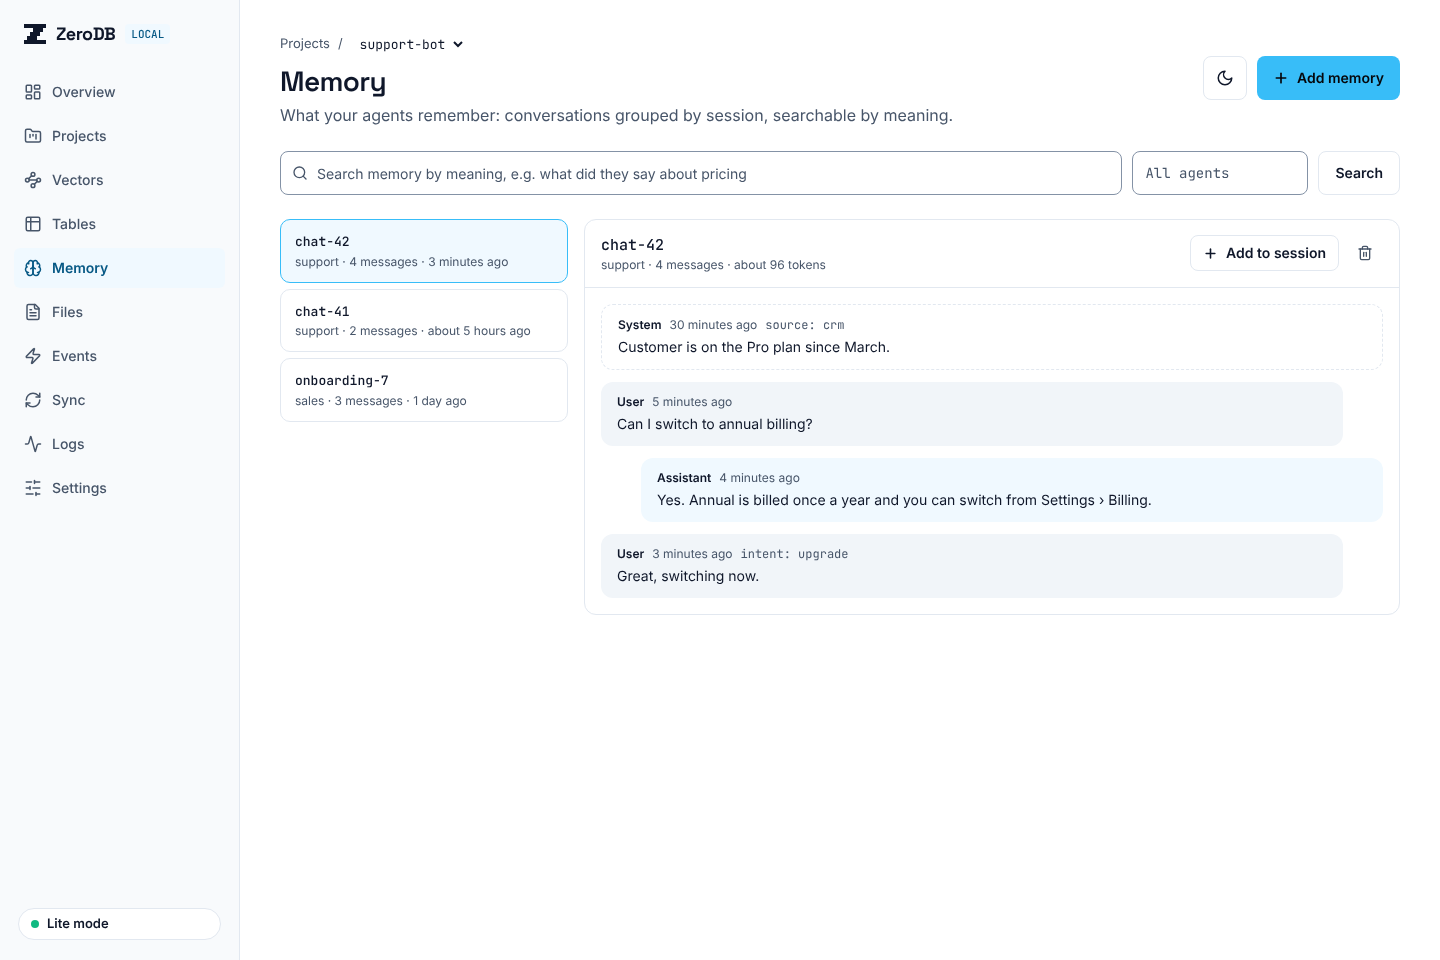
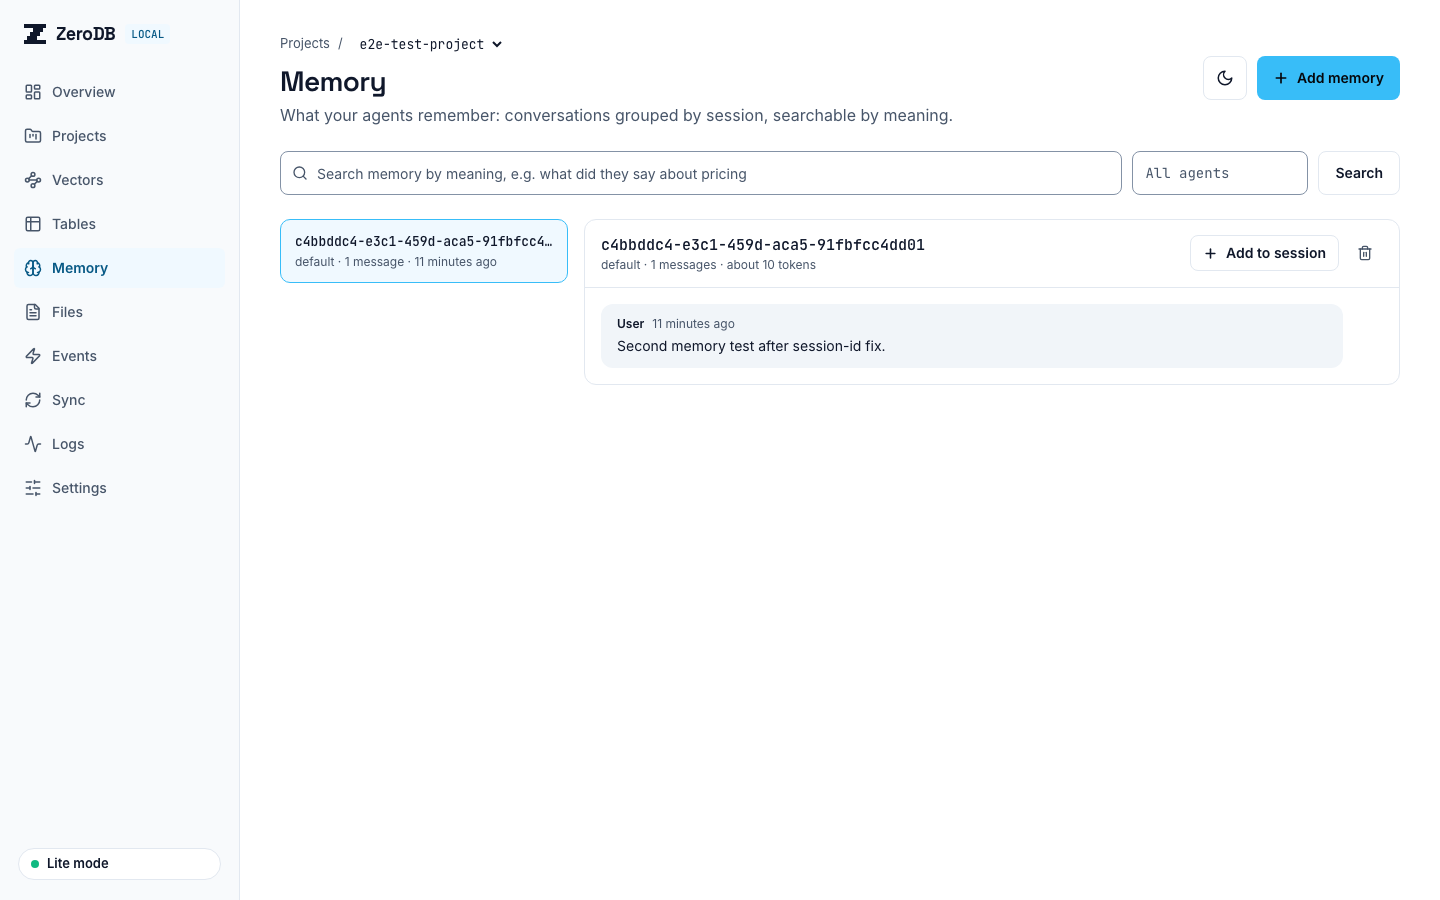
Update dashboard redesign handoff doc and screenshots after e2e pass
Replaced the fixture-data screenshots for all 10 pages (light and dark) with
ones taken this session against a real zerodb serve lite-mode backend with
real data. Updated the handoff doc with what was verified end-to-end, what
was fixed along the way (#73, #75, #77, #79, #80), and what's still open
(#83's Docker/MinIO blocker, and a sync_plans lite-mode gap not yet filed as
its own issue).

Refs #67

diff --git a/docs/features/DASHBOARD_REDESIGN.md b/docs/features/DASHBOARD_REDESIGN.md
@@ -4,7 +4,7 @@ Refs #67 · Branch `feat/67-dashboard-redesign`
 
 This branch takes the ZeroLocal dashboard from a read-only viewer to a working tool: every resource can be created from the UI, every page is fully built (no "coming soon"), it uses the ZeroDB brand, and it has light and dark themes. This doc is for whoever finishes it locally. It says what's built, what was decided, where the design and the API disagree, and what's left.
 
-Screenshots of the built pages (light, dark, phone, dialogs) are in [`docs/design/dashboard-redesign/`](../design/dashboard-redesign/). They were taken from a production build with fixture API data, not a live backend.
+Screenshots of the 10 built pages, light and dark, are in [`docs/design/dashboard-redesign/`](../design/dashboard-redesign/), taken this session (Nov 22) against a real `zerodb serve` lite-mode backend with real data. The phone-width and dialog screenshots there are from an earlier pass against fixture API data and were not retaken this session.
 
 ## Decisions (design review, Nov 22, 2026)
 
@@ -61,7 +61,31 @@ Every API router was checked against the dashboard. Result:
 
 Also fixed: `api/tests/test_qdrant_startup.py` was already failing on `main` (it expected `6333:6333`, the file has had a port variable for a while).
 
-**Found while testing, not fixed (API bugs in lite mode):** `GET /sync/status` fails with `no such table: sync_state` and `GET /sync/history` with `no such column: sync_history.sync_id` on a fresh lite database. The Sync page shows those errors until the lite migrations create these tables. Same family as #47.
+## End-to-end pass against a real lite-mode API (this session)
+
+Merged `main` in (brings #47's lite-mode CRUD fix, plus #64/#66/#71), then ran the full walkthrough against a real `zerodb serve` (lite mode) and `npm run dev` dashboard, driven by real browser automation, in both light and dark theme.
+
+**Fixed as part of this pass** (own issue/branch/PR each, TDD -- failing test first):
+- **#73**: lite-mode `sync_history` table was missing `sync_id` and several other ORM-expected columns (`direction`, `mode`, `bytes_transferred`, `error_message`, `error_stack`, `snapshot_id`, `updated_at`) -- `GET /sync/history` 503'd on every lite install. `sync_state` already matched its ORM model and needed no change. Fixed in `lite/db/schema_lite.sql`.
+- **#75**: `zerodb serve` (the README's own documented quickstart) crashed immediately with `ModuleNotFoundError: No module named 'app'` -- `cli/commands/serve.py` pointed uvicorn at a package (`app.main:app`) that doesn't exist anywhere. The existing test suite had mocked this exact call and asserted the wrong module string, so it stayed green while the command was completely broken for every user. Fixed to resolve and `chdir` into the real `api/` package.
+- **#77**: Memory page's **Add memory** dialog stored a memory successfully with a blank Session field, but the memory then vanished permanently -- `api/services/memory_service.py`'s `list_sessions()` filters out any `session_id IS NULL` row, and the dialog's own "Leave blank to start a new one" hint wasn't implemented; blank really meant null. Fixed client-side to generate a session id when the field is blank.
+- **#79**: lite-mode `conflict_log` table had an older, different column shape than the `ConflictLog` ORM model (no `detected_at`/`conflict_metadata`/`notes`, different names for the rest) -- `GET /sync/conflicts/` 503'd, hit while exercising the Sync page. Same family as #73; fixed the same way.
+- **#80**: Every page showed a false "This server needs an API key" banner whenever a project simply wasn't connected to ZeroDB Cloud (a `cloud/status` 401 by design) -- even with `zerodb serve` started with **no** `ZERODB_LOCAL_API_KEY` at all and every real local-API request succeeding. The global 401/403 handler couldn't tell a cloud-auth 401 apart from a local-key 401. Fixed by excluding `cloud/status` from the generic auth-error path.
+
+**Verified working, no changes needed:**
+- Create a project; Overview/Projects both reflect it immediately.
+- Vectors: Guided and Advanced JSON upsert, both with a custom ID containing `/` (confirms the `{vector_id:path}` fix from a prior session still holds post-merge); semantic search with real relevance scores; delete (including a slash-ID vector).
+- Tables: column builder and JSON schema, both create working tables; Add row respects the schema's types.
+- Memory: add (now always listed, see #77), semantic search across stored memories.
+- Files: upload, download, delete; the 10 MB client-side guard (`exceedsUploadLimit` in `dashboard/lib/files.ts`) verified via its existing unit test rather than a live oversized browser upload (the upload tool itself caps combined size well under the limit, so a true 10MB+ upload wasn't practical to drive through the browser this pass).
+- Events: publish, family filter chips, detail panel.
+- Sync: preview (push, with real counts: tables/rows/vectors/memories/events/files) -- not executed (`Run sync`/push/pull need a real cloud connection, gated on `CLOUD_API_KEY`, not present this session; see below).
+- Theme (light/dark/system) and Settings form defaults (Guided ⇄ Advanced JSON) persist correctly across pages and reloads.
+- API key flow (step below): banner only appears when a real key is actually configured; pasting the correct key in Settings restores access; `zerodb serve --host 0.0.0.0` with no key prints the documented security warning to stdout.
+
+**Found, filed, not fixed (out of scope for this pass):**
+- **#83**: `docker compose up`/`docker compose build` fails outright -- `docker-compose.yml`'s `minio` service references `ainative-studio/minio:local`, which exists nowhere (not on Docker Hub, not built locally, no Dockerfile or build step for it). The comment pointing at a `minio-fork-maintenance-plan.md` doc is dead; that file doesn't exist. Independently confirmed `minio/minio:latest` really is gone from Docker Hub (so the stated reason for moving off it is real), but the replacement was never actually built. The dashboard's own Docker image builds and runs fine in isolation; it's the full compose stack that's blocked, since `zerodb-api` hard-depends on `minio: condition: service_healthy`. This is a real infrastructure gap (sourcing/building/maintaining a MinIO fork) out of scope to improvise inside this session -- filed and left for dedicated follow-up.
+- A deeper, separate lite-mode gap found but **not** fixed: `POST /sync/execute` still fails with `no such table: sync_plans` -- `api/models/sync_plan.py`'s ORM model (added for #71's sync-plan-persistence work) has no corresponding table in `lite/db/schema_lite.sql` at all (not just missing columns, the whole table). This blocks a real end-to-end push/pull run in lite mode even once cloud-connected. Flagged here rather than fixed, since it's materially larger than #73/#79's column-mismatch shape and wasn't part of this pass's original scope. No issue filed yet for this specific gap -- worth its own issue before anyone attempts a live cloud sync run in lite mode.
 
 ## Where things live
 
@@ -103,22 +127,28 @@ The design canvas was drawn before checking the request models. The code follows
 
 ## Verified
 
-- `npm test`: **144 passing** (16 files): pure logic, API client (now with an injected HTTP instance; the old suite made real requests to localhost:8000), theme provider, and page-level tests that drive each create flow through the UI.
+- `npm test`: **152 passing** (16 files): pure logic, API client (now with an injected HTTP instance; the old suite made real requests to localhost:8000), theme provider, and page-level tests that drive each create flow through the UI.
 - `npx tsc --noEmit`, `npm run lint`: clean.
-- `npm run build`: all 10 routes prerender.
+- `npm run build`: all 10 routes prerender (also rebuilt inside `docker compose build dashboard`, which succeeds cleanly -- see Docker note below).
 - Production build loaded in Chromium against fixture API data, every page in light, dark and 390px phone width (plus the 401 banner): **no console errors, no horizontal page scroll**. That pass caught and fixed a hydration mismatch (browser-only values rendered on the server) and table "Actions" labels escaping their scroll box on phones.
 - Also fixed two tests already failing on `main`: a timezone-dependent `formatDate` test and the network-calling API client suite.
+- **End-to-end against a real `zerodb serve` (lite mode) API**, driven by real browser automation, light and dark theme: see the session writeup above for exactly what was exercised and what it found. Python suite: `python -m pytest tests/ -v --no-cov` 261 passed / 9 skipped; `cd api && python -m pytest tests/ --no-cov` 69 passed / 120 skipped (the 120 need a real docker-compose Postgres, correctly skip without one).
+- `zerodb serve` is confirmed working end-to-end post-#75 (it crashed on every invocation before that fix).
+- API key flow (no key → open; `ZERODB_LOCAL_API_KEY` set → banner + per-page error until the key is pasted in Settings → Connection, after which it works; `--host 0.0.0.0` with no key prints the documented warning to stdout) -- all confirmed against a real server, not mocked.
+- Light/dark/system theme and Settings form defaults verified live, not just unit-tested.
+- Screenshots in `docs/design/dashboard-redesign/` for all 10 pages in light and dark are from this session's real lite-mode server with real data (replacing the prior fixture-data screenshots for those 20 files). The dialog (`dlg-*`), phone (`phone-*`), and `light-auth-banner.png` screenshots from the prior fixture-data pass were **not** retaken this session -- left as-is; worth a follow-up pass since the auth-banner one in particular now shows a state (#80's false positive) that no longer occurs the way it did when it was captured.
 
 ## Not verified / left to do locally
 
-1. **End-to-end against a real lite-mode API.** Not run here. Lite-mode CRUD for tables, vectors, files and events is blocked server-side by #47 (Postgres-only SQL). Once #47 lands: start the API in lite mode, `npm run dev`, and walk Projects → Vectors → Tables → Files → Events creating one of each.
-2. ~~**Vector IDs containing `/`.**~~ Fixed in 7895271 (`{vector_id:path}` in `api/routers/vectors.py`).
-3. ~~**Large uploads.**~~ Fixed in 3915a83: client-side 10 MB guard with a clear error (`MAX_UPLOAD_BYTES` in `dashboard/lib/files.ts`). The API itself still has no limit.
+1. ~~**End-to-end against a real lite-mode API.**~~ Done this session (see above). Found and fixed #73, #75, #77, #79, #80 along the way; found and filed #83 (Docker, not fixed) and a `sync_plans` lite-mode gap (not yet filed as its own issue -- see above).
+2. ~~**Vector IDs containing `/`.**~~ Fixed in 7895271 (`{vector_id:path}` in `api/routers/vectors.py`). Reconfirmed working this session, both Guided and Advanced JSON upsert and delete, after the `main` merge.
+3. ~~**Large uploads.**~~ Fixed in 3915a83: client-side 10 MB guard with a clear error (`MAX_UPLOAD_BYTES` in `dashboard/lib/files.ts`). The API itself still has no limit. Reconfirmed via its unit test this session (see above for why not a live oversized upload).
 4. **Live events.** The feed polls every 3s. `POST /events/subscribe` exists; switch to it if there's an SSE/WebSocket channel to read from.
-5. **Lite-mode sync tables.** `sync_state` table and `sync_history.sync_id` column are missing on a fresh lite DB (see above).
-6. **Sync against a real cloud account.** The Sync and Memory pages are built to the API's response models and tested with mocks; run a real push/pull once a project is connected.
-7. **Next.js 14.2.15 security advisories** (33 npm audit findings) remain. Framework bump is a separate, engineering-owned task.
-8. `next start` warns because `next.config.mjs` sets `output: 'standalone'`; for local runs use `node .next/standalone/server.js` (Dockerfile already does).
+5. ~~**Lite-mode sync tables.**~~ Fixed this session: #73 (`sync_history`) and #79 (`conflict_log`). A related, larger gap remains: `sync_plans` has no lite-mode table at all, blocking `POST /sync/execute` end to end (see above) -- not yet filed as its own issue.
+6. **Sync against a real cloud account.** Preview confirmed working this session (real counts from a real lite-mode project). Push/pull execution still not run against a real cloud account -- no `CLOUD_API_KEY` was available this session either. Also blocked in lite mode by the `sync_plans` gap above until that's fixed.
+7. **Docker / full mode.** Dashboard's own Docker image builds and runs cleanly (`docker compose build dashboard` succeeds, all 10 routes present in the build output). The full compose stack cannot start at all: see #83 -- `ainative-studio/minio:local` doesn't exist anywhere, and `zerodb-api` hard-depends on `minio` being healthy. Not fixed this session (real infra work, out of scope here). `ZERODB_BIND_ADDRESS=0.0.0.0` publishing on all interfaces instead of loopback could not be verified for the same reason -- the stack never came up.
+8. **Next.js 14.2.15 security advisories** (33 npm audit findings) remain. Framework bump is a separate, engineering-owned task.
+9. `next start` warns because `next.config.mjs` sets `output: 'standalone'`; for local runs use `node .next/standalone/server.js` (Dockerfile already does).
 
 ## Run it
 
